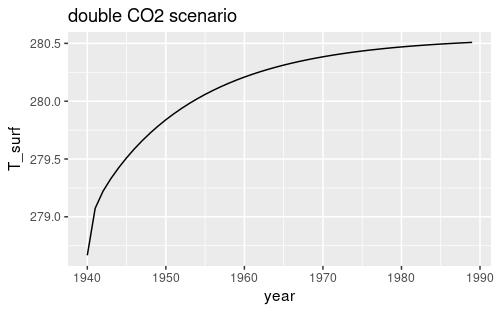
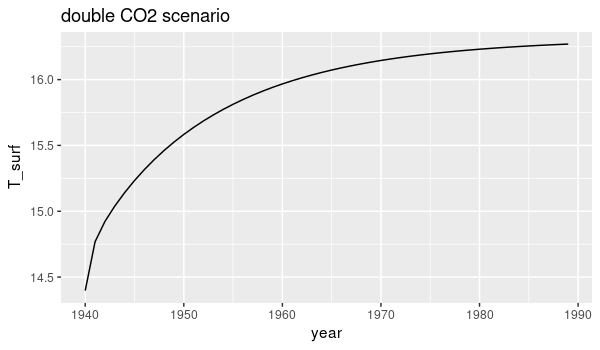
use area weighted average

diff --git a/README.md b/README.md
@@ -21,17 +21,18 @@ There is some R code in the repository to load the model output into data frames
 ```r
 source('R/functions.R')
 tstamps = seq.Date(from=as.Date('1940-01-01'), by='1 month', len=50*12)
+tsurf = read_greb(file='output/scenario', tstamps=tstamps, varname='tsurf', ivar=1, nvar=5)
 ```
 
 
 ### Rising annual global mean temperature after doubling CO2
 
 ```r
-tsurf = read_greb(file='output/scenario', tstamps=tstamps, varname='tsurf', ivar=1, nvar=5)
-ggplot(tsurf %>% group_by(year=year(time)) %>% summarise(T_surf=mean(tsurf))) +
-  geom_line(aes(x=year, y=T_surf)) + ggtitle('double CO2 scenario')
+tsurf = tsurf %>% mutate(tsurf=tsurf-273.15, coslat = cos(lat/180*pi)) %>% 
+        group_by(year=year(time)) %>% summarise(T_surf=weighted.mean(tsurf, w=coslat))
+ggplot(tsurf) + geom_line(aes(x=year, y=T_surf)) + ggtitle('double CO2 scenario')
 ```
-[comment]: <> (ggsave(..., dpi=100, scale=.5))
+[comment]: <> (ggsave(..., dpi=100, width=6, height=3.5))
 ![1940-1990 time series of surface temperature under double CO2 scenario](figure/tsurf_2co2.png)
 
 
